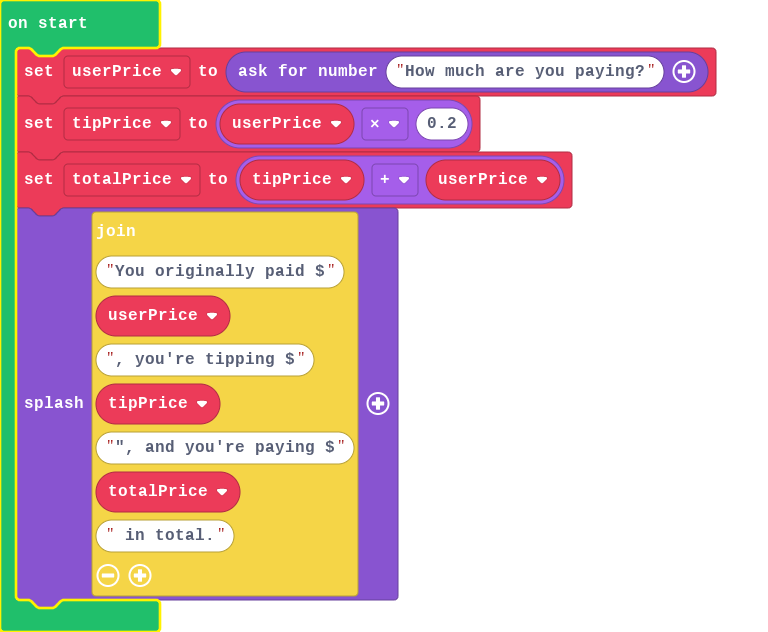
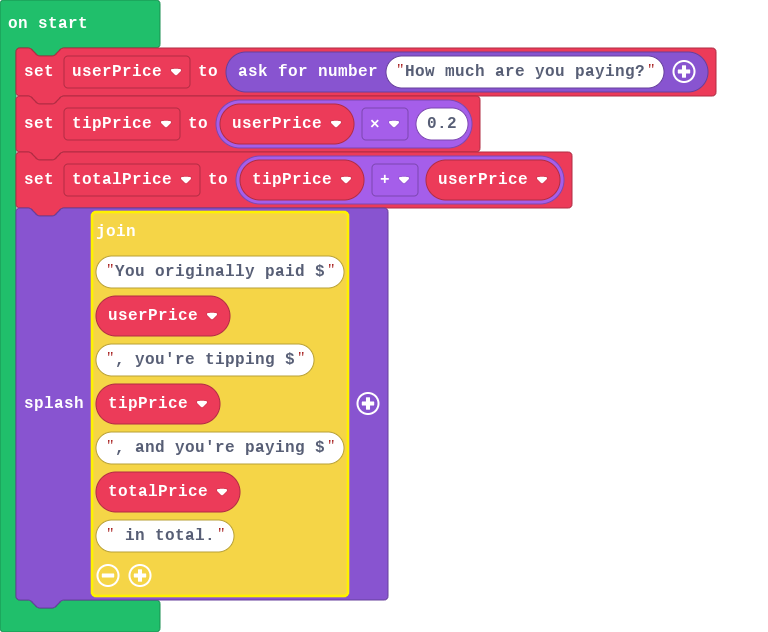
Update main.blocks, main.ts

Changed region(s): [[0.0, 0.0, 0.5312, 1.0]]

diff --git a/main.ts b/main.ts
@@ -1,4 +1,4 @@
 let userPrice = game.askForNumber("How much are you paying?")
 let tipPrice = userPrice * 0.2
 let totalPrice = tipPrice + userPrice
-game.splash("You originally paid $" + userPrice + ", you're tipping $" + tipPrice + "\", and you're paying $" + totalPrice + " in total.")
+game.splash("You originally paid $" + userPrice + ", you're tipping $" + tipPrice + ", and you're paying $" + totalPrice + " in total.")
